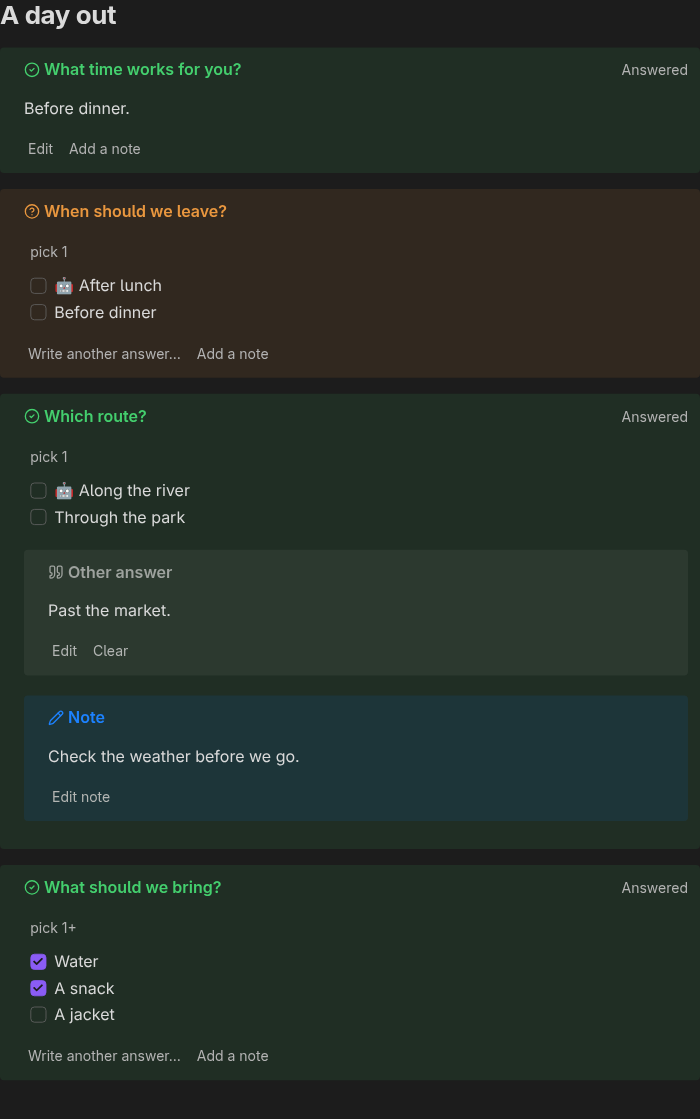
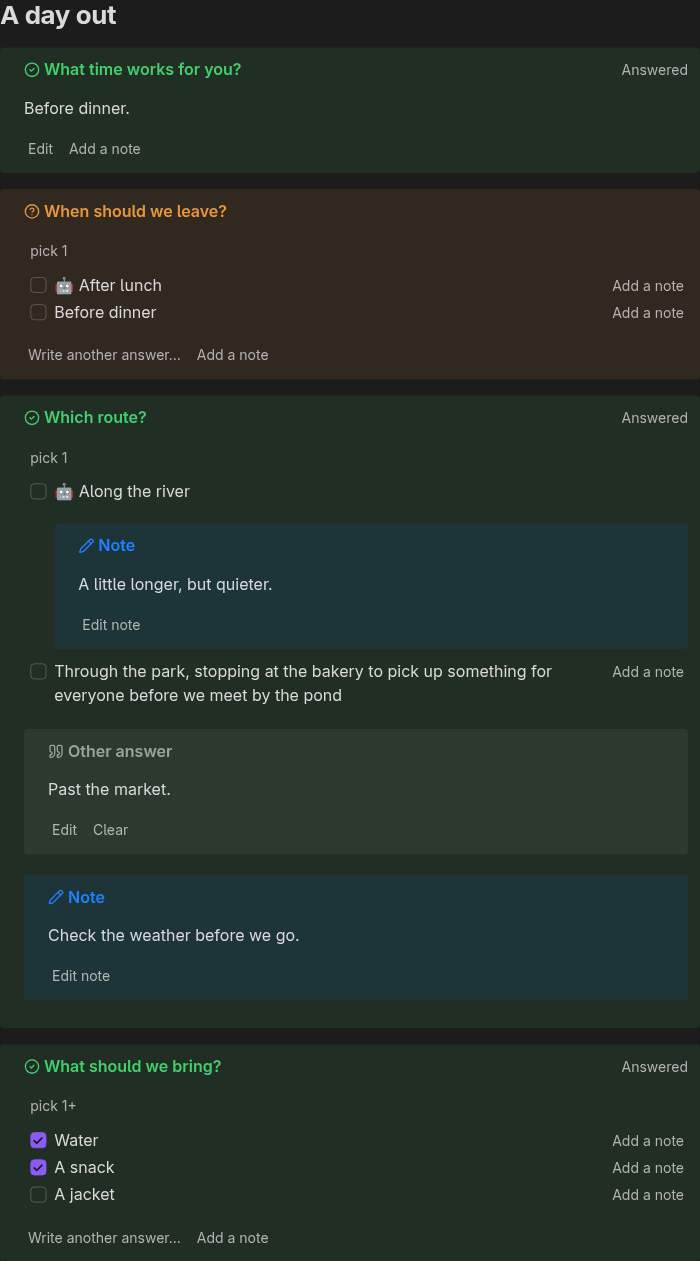
Refresh screenshots and example guidance for option notes

diff --git a/example/README.md b/example/README.md
@@ -22,6 +22,9 @@ The setup script copies only `main.js`, `manifest.json`, and `styles.css`. Run i
 - Tick the 🤖 suggestion or use Write another answer… to open the custom answer editor. Saved custom text appears in an Other answer callout with Edit and Clear actions. Opening or canceling the editor keeps saved picks unchanged.
 - Switch a single pick, select several multiple picks, and save Other. Single picks clear competing answers; multiple picks can accompany Other.
 - Notice saved answers use the theme’s success color and a check icon. Pick instructions stay above the choices; checkboxes align with the first line of wrapped text. Clearing the last saved answer restores the question appearance.
+- Add a note to an unchecked option and verify it stays unchecked. Change the selected answer and verify the option note remains beneath its original option.
+- Clear a custom answer or replace it with a single pick, and cancel the confirmation to keep it. Saving an existing note as empty also asks first.
+- Compare rendered callouts in Live Preview and reading view: answered colors, icons, pick hints, nested-note spacing, and custom-answer cards share their appearance. Every copy of a note must be in reading view before Tincan can save.
 - Edit a note without changing the answer. Use Add a note beside the answer actions to create a nested note on save. The last question also has an empty note to try Add note; filled notes have Edit note.
 
-`Showcase.md` is the compact “A day out” example for screenshots. It includes text, a suggestion, single and multiple picks, saved Other, and one explicit note. Both notes remain readable Markdown without the plugin.
+`Showcase.md` is the compact “A day out” example for screenshots. It includes text, a suggestion, single and multiple picks, a wrapped option, saved Other, a note on an unchecked option, and a question-level note. Answers and notes remain readable Markdown without the plugin.

diff --git a/README.md b/README.md
@@ -4,7 +4,7 @@ Answer questions inside Obsidian callouts in reading view. Put the question in t
 
 <picture>
   <source media="(prefers-color-scheme: dark)" srcset="docs/images/tincan-dark.png">
-  <img src="docs/images/tincan.png" alt="Tincan in Obsidian reading view: answered and unanswered questions, pick instructions, custom answers, and a nested note." width="700">
+  <img src="docs/images/tincan.png" alt="Tincan in Obsidian reading view: answered and unanswered questions, pick instructions, custom answers, and notes on individual options and the whole question." width="700">
 </picture>
 
 Write a question callout and switch to reading view. Unanswered questions keep your theme’s question appearance; saved answers use its success color and a check icon. The icon tracks the answer, with no separate task-completion checkbox.
